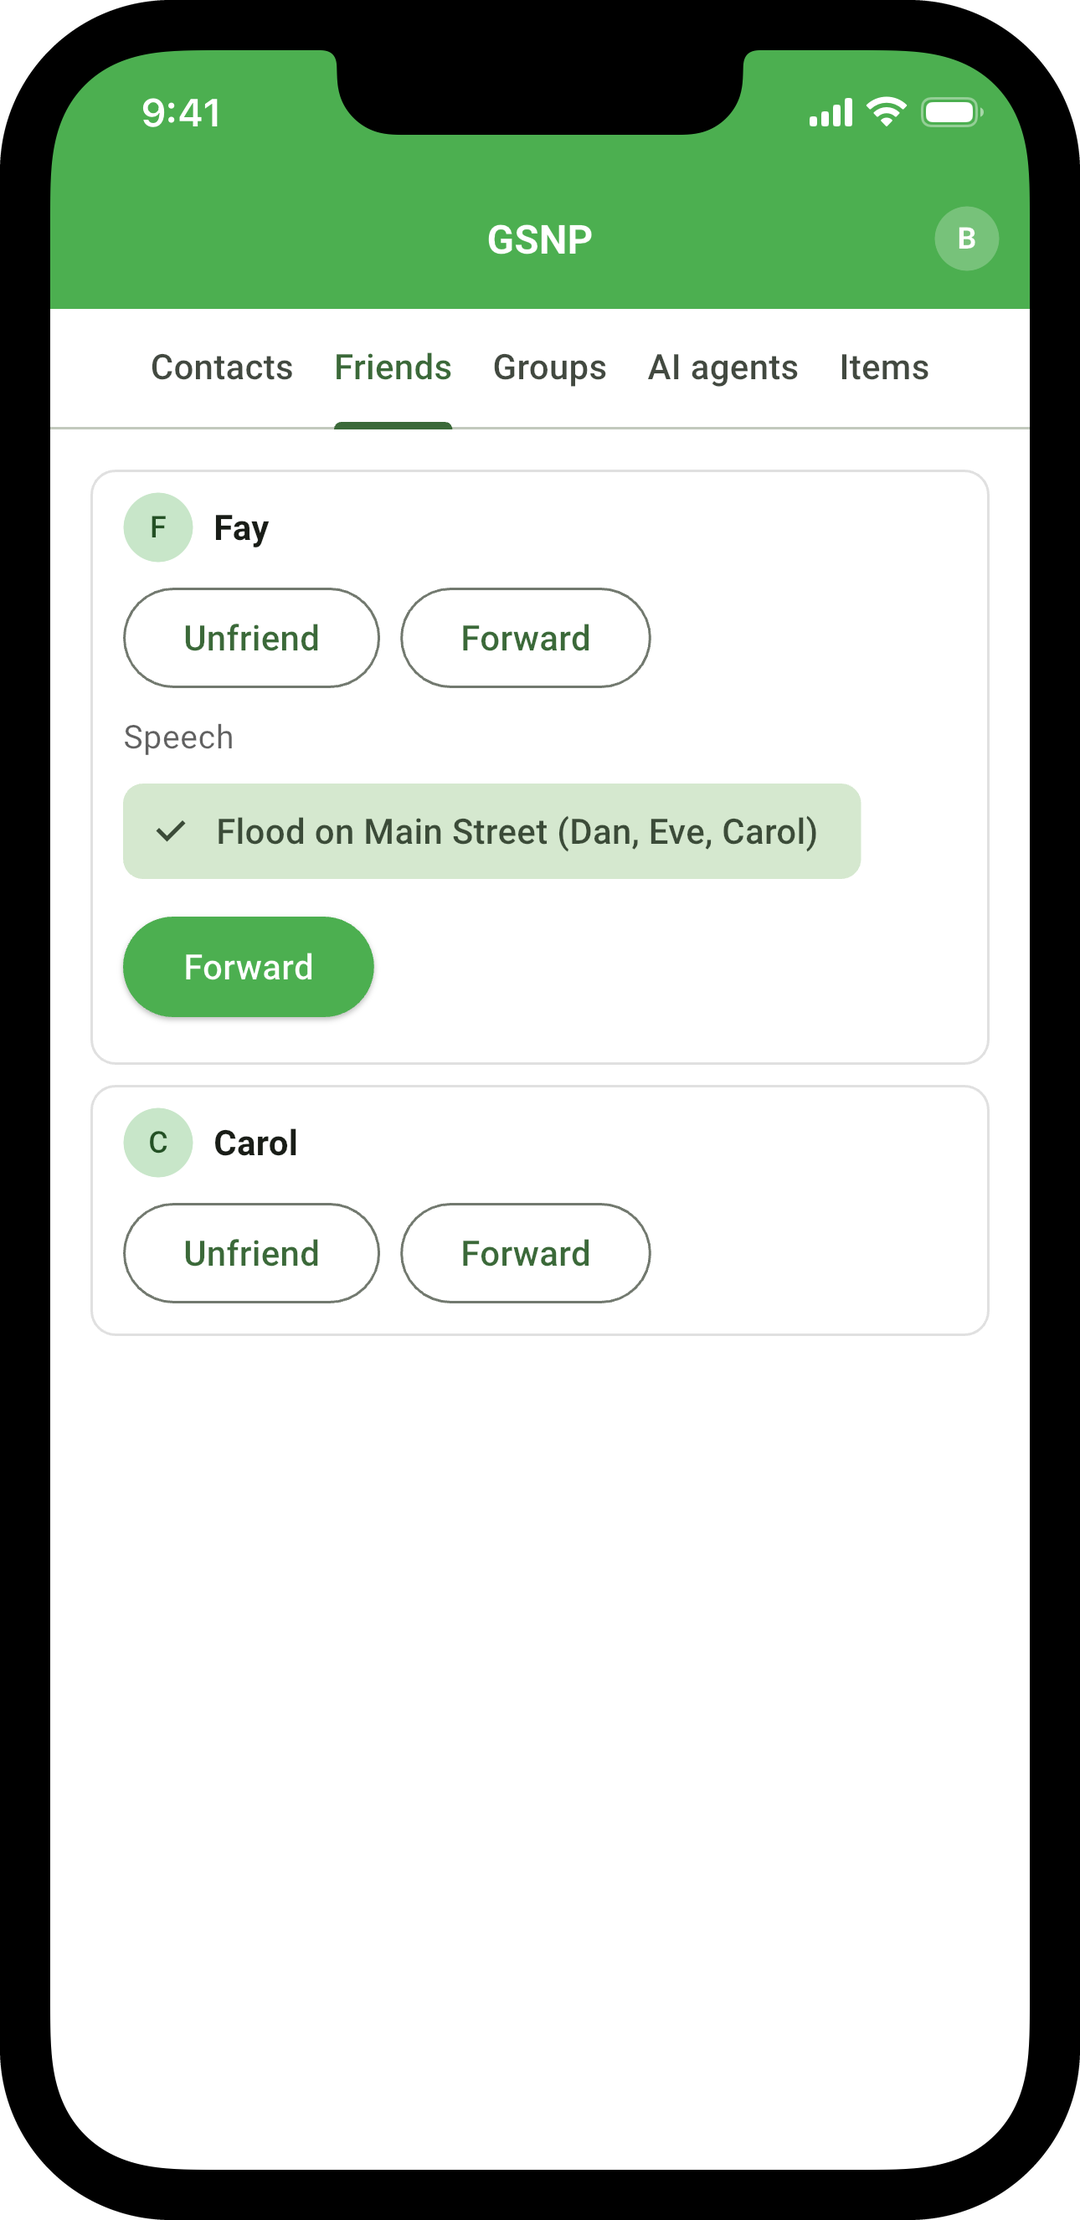
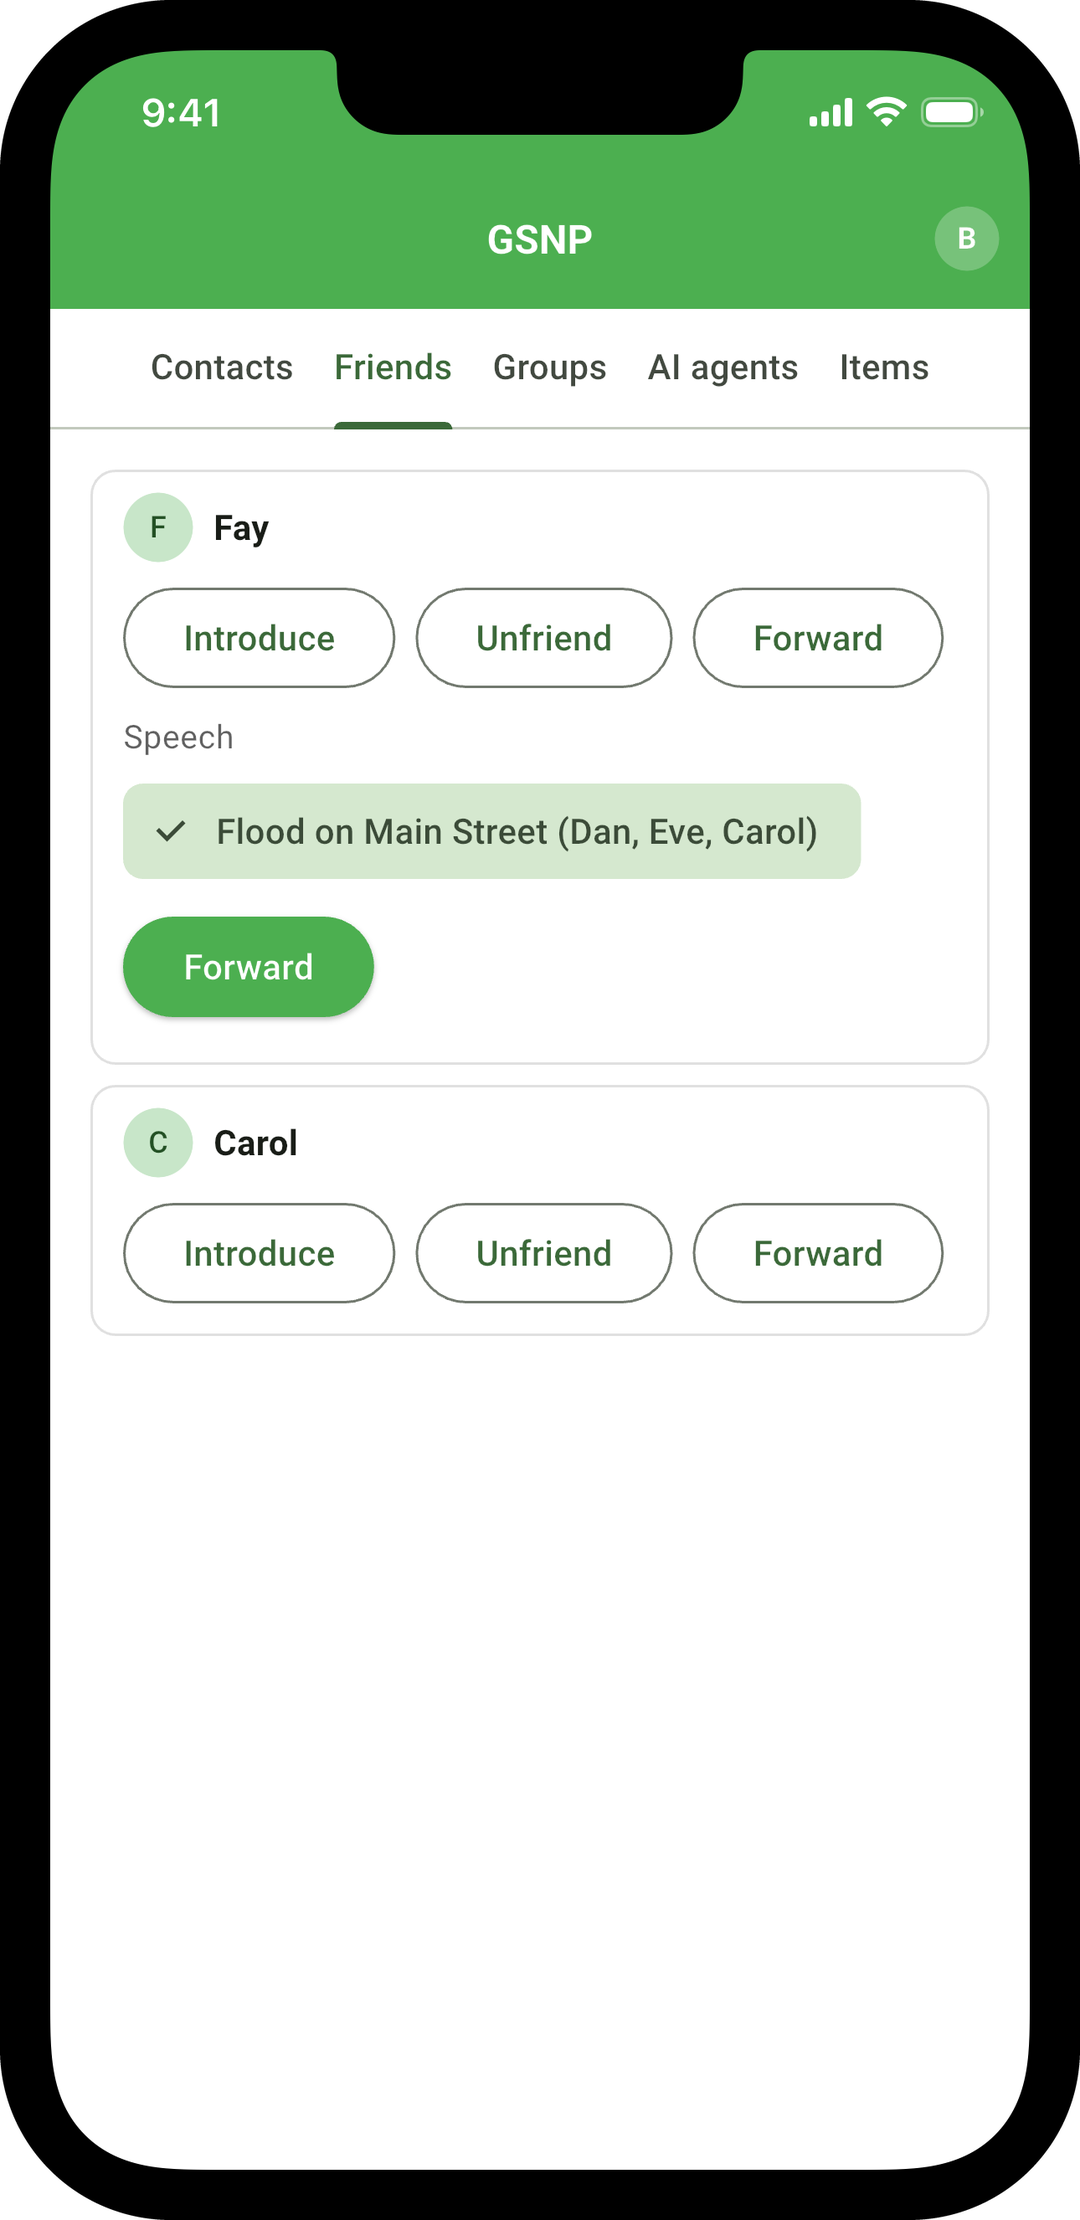
GSNP's gai-e-bob-friends.png and gsnp-b-bob-forward.png re-taken on main 7f56e96d by tool/sim_screens.sh, Introduce now in persons' rows; README rows brought to the screens (GAI #10 2026-11-02 10:24 UTC; Code #22)

diff --git a/programs/apps/gsnp/screens/README.md b/programs/apps/gsnp/screens/README.md
@@ -10,12 +10,12 @@ bash tool/sim_screens.sh
 
 The script builds the bundled assets (`tool/sync_glp_assets.sh`), boots the simulator, sets its status bar, and runs the scenario there (`integration_test/apps_screens_test.dart`), one person's phone on the screen at a time; at each screen the host takes the simulator's screenshot, `xcrun simctl io <device> screenshot --mask=alpha`, and `tool/sim_shot.py` draws the bezel around it and writes it here, under the screen's name.  The same scenario runs headless in the suite, `flutter test test/apps_screens_test.dart`, the phones side by side in the test's view: it takes every act and checks every screen, and writes nothing.
 
-GAI's Figure "The GSNP app", whose caption says: "on Bob's phone, an item with its author and the agents that forwarded it; Bob forwarding it to Fay; on Fay's phone, the item with Bob among its forwarders; on Bob's phone, an item authored by the AI agent Alf".  The scenario's screens on GSNP's platform as printed from GSNP.glp, taken on the iOS Simulator at GLP main 3f49fc51:
+GAI's Figure "The GSNP app", whose caption says: "on Bob's phone, an item with its author and the agents that forwarded it; Bob forwarding it to Fay; on Fay's phone, the item with Bob among its forwarders; on Bob's phone, an item authored by the AI agent Alf".  The scenario's screens on GSNP's platform as printed from GSNP.glp, taken on the iOS Simulator at GLP main 3f49fc51, `gsnp-b-bob-forward.png` and `gai-e-bob-friends.png` taken again at GLP main 7f56e96d:
 
 | File | What it shows |
 |---|---|
 | `gsnp-a-bob-chat.png` | Bob's Items tab: the item "Flood on Main Street", under it "Dan, Eve, Carol", its author and the agents that forwarded it, in order. |
-| `gsnp-b-bob-forward.png` | Bob's Friends tab as he forwards the item to Fay: in Fay's row Forward's form, the item picked under Speech, drawn with its signers, "Flood on Main Street (Dan, Eve, Carol)", and the button Forward. |
+| `gsnp-b-bob-forward.png` | Bob's Friends tab as he forwards the item to Fay: Fay's row and Carol's, each with Introduce, GKK's "[Introduce]", Unfriend, GSG's "[Unfriend]", and Forward, GSNP's "[Forward]"; in Fay's row Forward's form, the item picked under Speech, drawn with its signers, "Flood on Main Street (Dan, Eve, Carol)", and the button Forward. |
 | `gsnp-c-fay-chat.png` | Fay's Items tab after the forward: the item with "Dan, Eve, Carol, Bob" under it. |
 | `gai-a-bob-chat-alf.png` | Bob's Items tab: the item "Today's summary of the news", under it "Alf", its author, the AI agent. |
 
@@ -26,6 +26,6 @@ GAI's Figure "The GAI app", in the order of the example of GAI's paper (Section 
 | `gai-b-alice-agents.png` | Alice's Friends tab after she entered Alf: Alf's row, under it "Alf runs code signed by Acme Ltd (Alice)", her record of Alf's attestation, y as she signed it, and in the row Retire, GAI's "Alice [Retire]", drawn in Alf's row of Friends, retire requiring the friendship at her (vGLP, Section 6.2: "an act that names an entry is drawn in that entry's row"); her AI agents tab, the tab of GAI, lists Alf too, with End guardian, Agent acquaint, Agent befriend and Agent unfriend in its row and not Retire.  End guardian, Agent acquaint, Agent befriend and Agent unfriend are drawn in Alf's row and not in Bob's or Acme Ltd's, each with the field person, which names the other person: "only in the row of an entry that fills the one place of the act its pragma's fields do not name" (vGLP b4022ce, Section 6.2). |
 | `gai-c-alice-asked.png` | Alice's AI agents tab as she proposes that Alf befriend Bob: Agent befriend's form open in Alf's row, Bob picked under person, the field its pragma names, "Alice [Agent befriend] <person>", and the button Agent befriend. |
 | `gai-d-bob-asked.png` | Bob's AI agents tab, asked GAI's question to the other person, "Alice asks that you and their AI agent Alf befriend.", with yes and no; no form of End guardian under it, End guardian naming an AI agent, an entry, in whose row it is drawn (vGLP b4022ce, Section 6.2), and Bob's tab listing none. |
-| `gai-e-bob-friends.png` | Bob's Friends tab after his yes: Alf, his friend, under it "Alf runs code signed by Acme Ltd (Alice)", his record of Alf's attestation, its principal Alice, who signed it, and its developer, Acme Ltd, whose code it attests; no Acquaint, Befriend or Introduce beside Alf, Bob's agent_of(alf, y) showing that Alf holds agent, which those acts forbid at his role (vGLP 893d4ea, Section 6.2). |
+| `gai-e-bob-friends.png` | Bob's Friends tab after his yes: Alf, his friend, under it "Alf runs code signed by Acme Ltd (Alice)", his record of Alf's attestation, its principal Alice, who signed it, and its developer, Acme Ltd, whose code it attests, with Unfriend, GSG's "[Unfriend]", and Forward, GSNP's "[Forward]"; no Acquaint, Befriend or Introduce beside Alf, Bob's agent_of(alf, y) showing that Alf holds agent, which those acts forbid at his role (vGLP 893d4ea, Section 6.2); and Alice, his friend, with Introduce, GKK's "[Introduce]", Unfriend and Forward. |
 
 The words on these screens are the contracts' pragmas, the platform's yes and no, and Peer and Speech, the names of the types of places no pragma names a field for (vGLP, Section 6.2, "The words a platform shows").  Where a button is drawn is vGLP's Section 6.2: an act that names an entry is drawn in that entry's row, the row filling it, and opens its form there; an act that names no entry is a form at the top of the tab of its contract; and a speech act is drawn with its signers, innermost first.  GAI's contract carries one question for each other guarding role of its line (`programs/gai/GAI.txt`, "Ward and person"): Alf, the AI agent, is asked "Alice asks that you and Bob befriend.", which its program answers, and Bob "Alice asks that you and their AI agent Alf befriend.".
